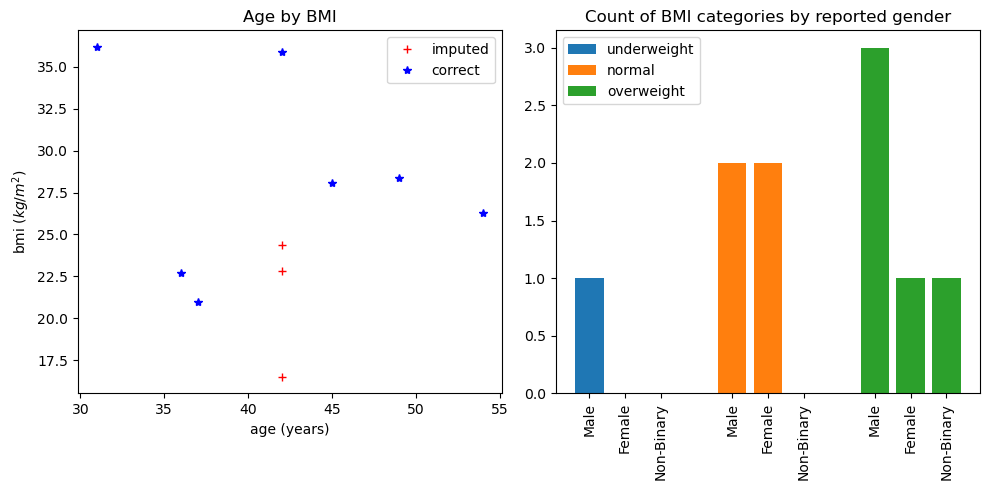
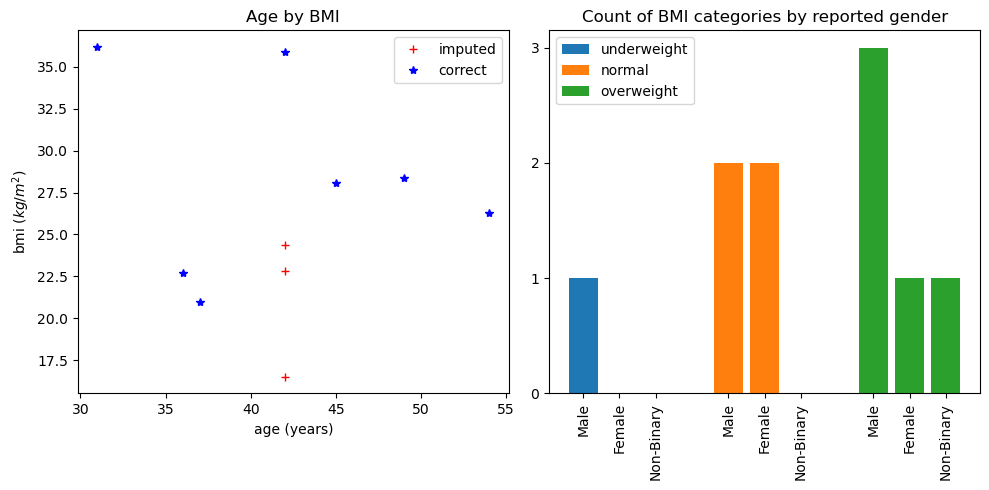
removed the bad yticks in the plot

diff --git a/lab3/lab3.py b/lab3/lab3.py
@@ -133,6 +133,7 @@ with open("data/clean.ssv","w") as f:
 
 # Now we visualize
 import matplotlib.pyplot as plt
+import matplotlib.ticker as ticker
 fig,axs = plt.subplots(1,2,figsize=(10,5))
 
 # first we do a scatter plot.  The hard part here (in theory) in splitting up the lists.  
@@ -163,6 +164,8 @@ axs[1].set_xticks([0,1,2,4,5,6,8,9,10])
 axs[1].set_xticklabels(['Male','Female','Non-Binary']*3,rotation='vertical')
 axs[1].set_title("Count of BMI categories by reported gender")
 axs[1].legend()
+axs[1].yaxis.set_major_locator(ticker.MaxNLocator(integer=True))
+
 plt.tight_layout()
 fig.savefig('figure.png',bbox_inches='tight')
 
